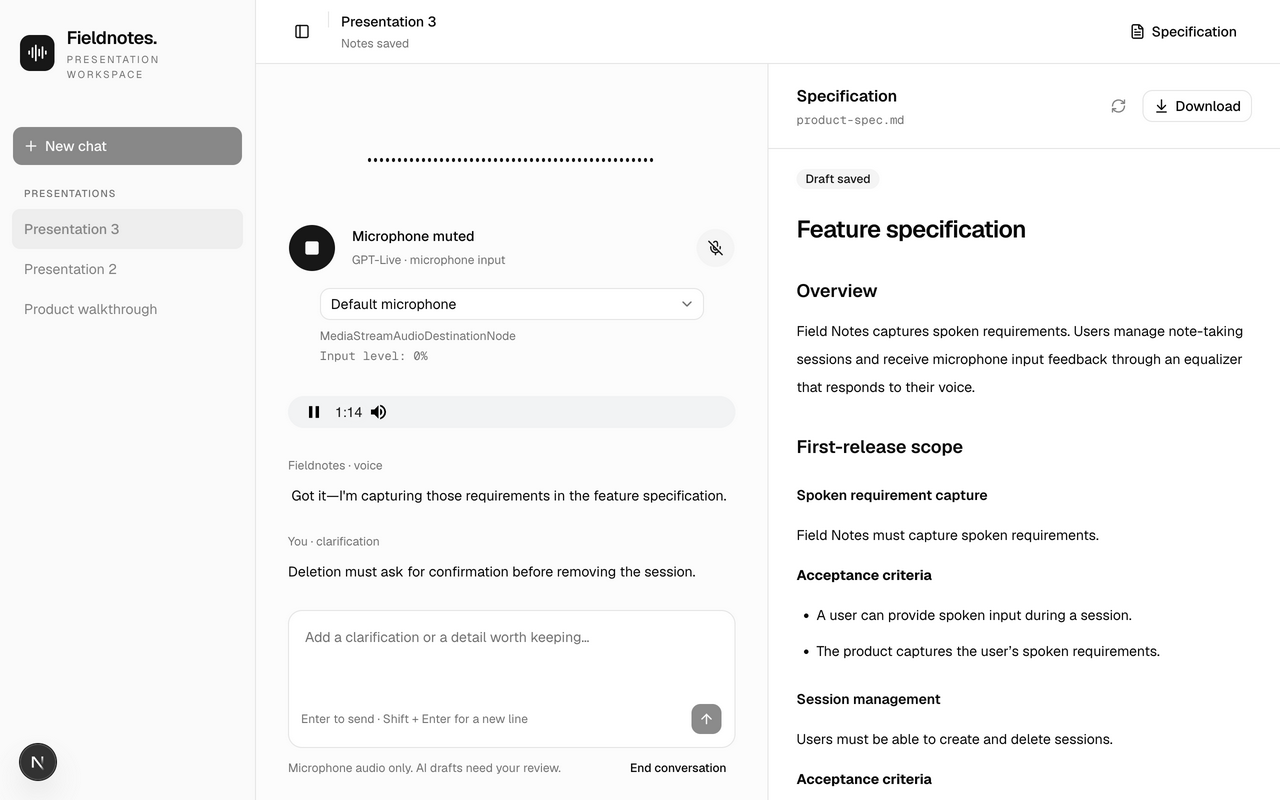
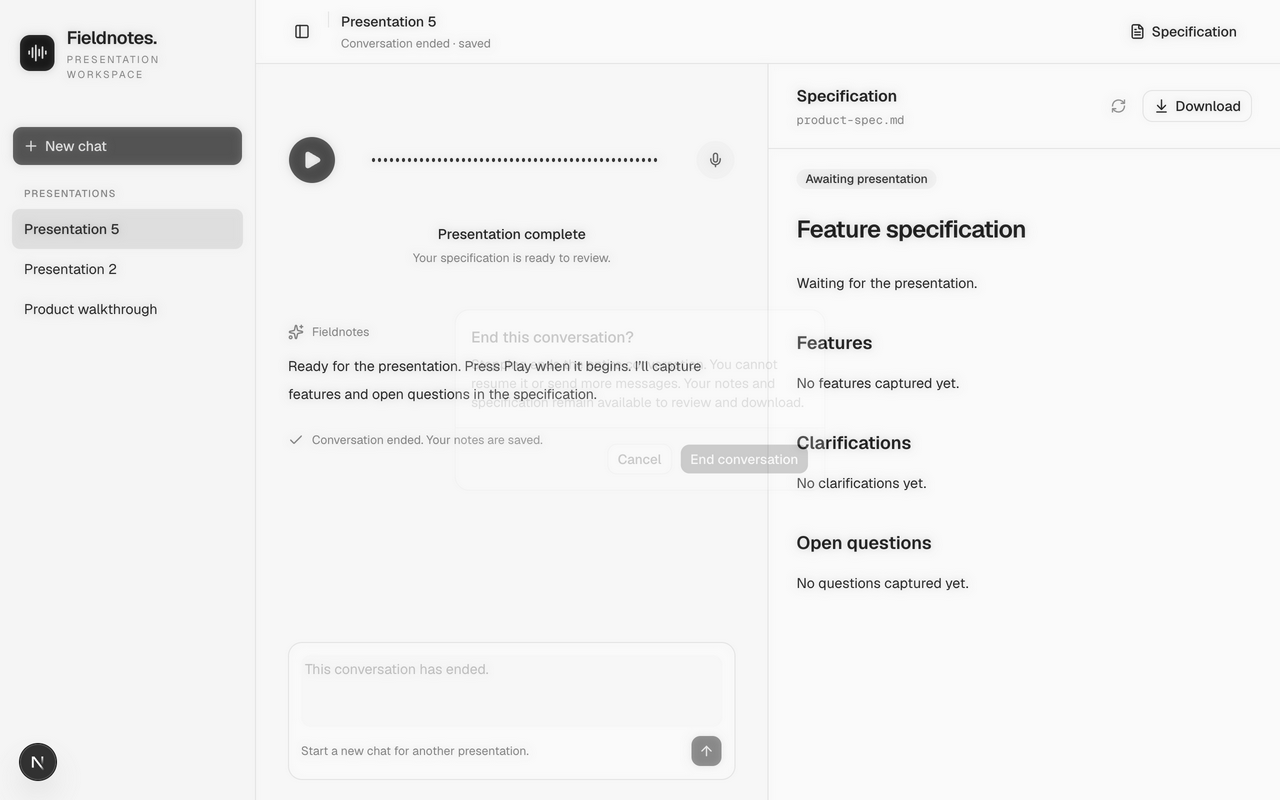
style(fieldnotes): align equalizer between playback controls

diff --git a/apps/web/components/fieldnotes/fieldnotes-app.tsx b/apps/web/components/fieldnotes/fieldnotes-app.tsx
@@ -476,11 +476,6 @@ export function FieldnotesApp() {
             >
               <div className="px-5 pt-6 md:px-8">
                 <div className="flex flex-col items-center gap-4 py-6">
-                  <MicrophoneEqualizer
-                    level={
-                      state === "live" && !muted ? (inputHealth?.level ?? 0) : 0
-                    }
-                  />
                   <div className="flex w-full items-center gap-4">
                     <Button
                       className="size-12 shrink-0 rounded-full"
@@ -504,27 +499,14 @@ export function FieldnotesApp() {
                         <Play className="size-5 fill-current" />
                       )}
                     </Button>
-                    <div className="min-w-0 flex-1">
-                      <div className="flex items-center gap-2 text-sm font-medium">
-                        {ended
-                          ? "Presentation complete"
-                          : state === "live"
-                            ? muted
-                              ? "Microphone muted"
-                              : inputLabels[inputHealth?.status ?? "waiting"]
-                            : state === "connecting"
-                              ? "Connecting microphone…"
-                              : state === "closing"
-                                ? "Finishing and saving…"
-                                : "Ready when you are"}
-                      </div>
-                      <p className="mt-1 text-xs leading-5 text-muted-foreground">
-                        {ended
-                          ? "Your specification is ready to review."
-                          : state === "live"
-                            ? "GPT-Live · microphone input"
-                            : "Press Play to start capturing audio."}
-                      </p>
+                    <div className="flex min-w-0 flex-1 justify-center">
+                      <MicrophoneEqualizer
+                        level={
+                          state === "live" && !muted
+                            ? (inputHealth?.level ?? 0)
+                            : 0
+                        }
+                      />
                     </div>
                     <Button
                       variant="secondary"
@@ -540,6 +522,28 @@ export function FieldnotesApp() {
                     >
                       {muted ? <MicOff /> : <Mic />}
                     </Button>
+                  </div>
+                  <div className="text-center">
+                    <div className="text-sm font-medium">
+                      {ended
+                        ? "Presentation complete"
+                        : state === "live"
+                          ? muted
+                            ? "Microphone muted"
+                            : inputLabels[inputHealth?.status ?? "waiting"]
+                          : state === "connecting"
+                            ? "Connecting microphone…"
+                            : state === "closing"
+                              ? "Finishing and saving…"
+                              : "Ready when you are"}
+                    </div>
+                    <p className="mt-1 text-xs leading-5 text-muted-foreground">
+                      {ended
+                        ? "Your specification is ready to review."
+                        : state === "live"
+                          ? "GPT-Live · microphone input"
+                          : "Press Play to start capturing audio."}
+                    </p>
                   </div>
                   {!ended && (
                     <MicrophoneInput

diff --git a/apps/docs/src/content/docs/fieldnotes-tutorial.md b/apps/docs/src/content/docs/fieldnotes-tutorial.md
@@ -25,7 +25,7 @@ The screenshots below show the implemented app with the shared web app component
 
 Chats use numbered names such as **Presentation 1** and **Presentation 2**. To rename one, right-click its name and choose **Rename**, enter a name, and click **Save**.
 
-Choose your microphone below the equalizer. Speak and check that the bars move, then wait for **Transcribing your presentation** and your words in the notes. A connected session alone does not confirm that speech is being captured. The player changes to **Stop**. GPT-Live transcribes the presentation, and the app updates `product-spec.md` in the **Specification** panel in batches. No opening task prompt is needed.
+The equalizer sits between **Play** and **Mute**. Choose your microphone below the controls. Speak and check that the bars move, then wait for **Transcribing your presentation** and your words in the notes. A connected session alone does not confirm that speech is being captured. The player changes to **Stop**. GPT-Live transcribes the presentation, and the app updates `product-spec.md` in the **Specification** panel in batches. No opening task prompt is needed.
 
 While audio capture is active, finish the conversation before switching chats. If you only want to pause your microphone, use **Mute**. On a narrow screen, use **Toggle Sidebar** to open the chat list.
 
@@ -68,7 +68,7 @@ If an update fails, your previous draft and saved notes remain available. Click 
 
 Finish your clarifications and download the specification before ending the conversation.
 
-1. Click **Stop** below the equalizer.
+1. Click **Stop** to the left of the equalizer.
 2. Read the **End this conversation?** confirmation. Stopping ends the entire conversation, and you cannot resume it or send more messages.
 3. Click **End conversation** to confirm. To keep the conversation open, click **Cancel** instead.
 
